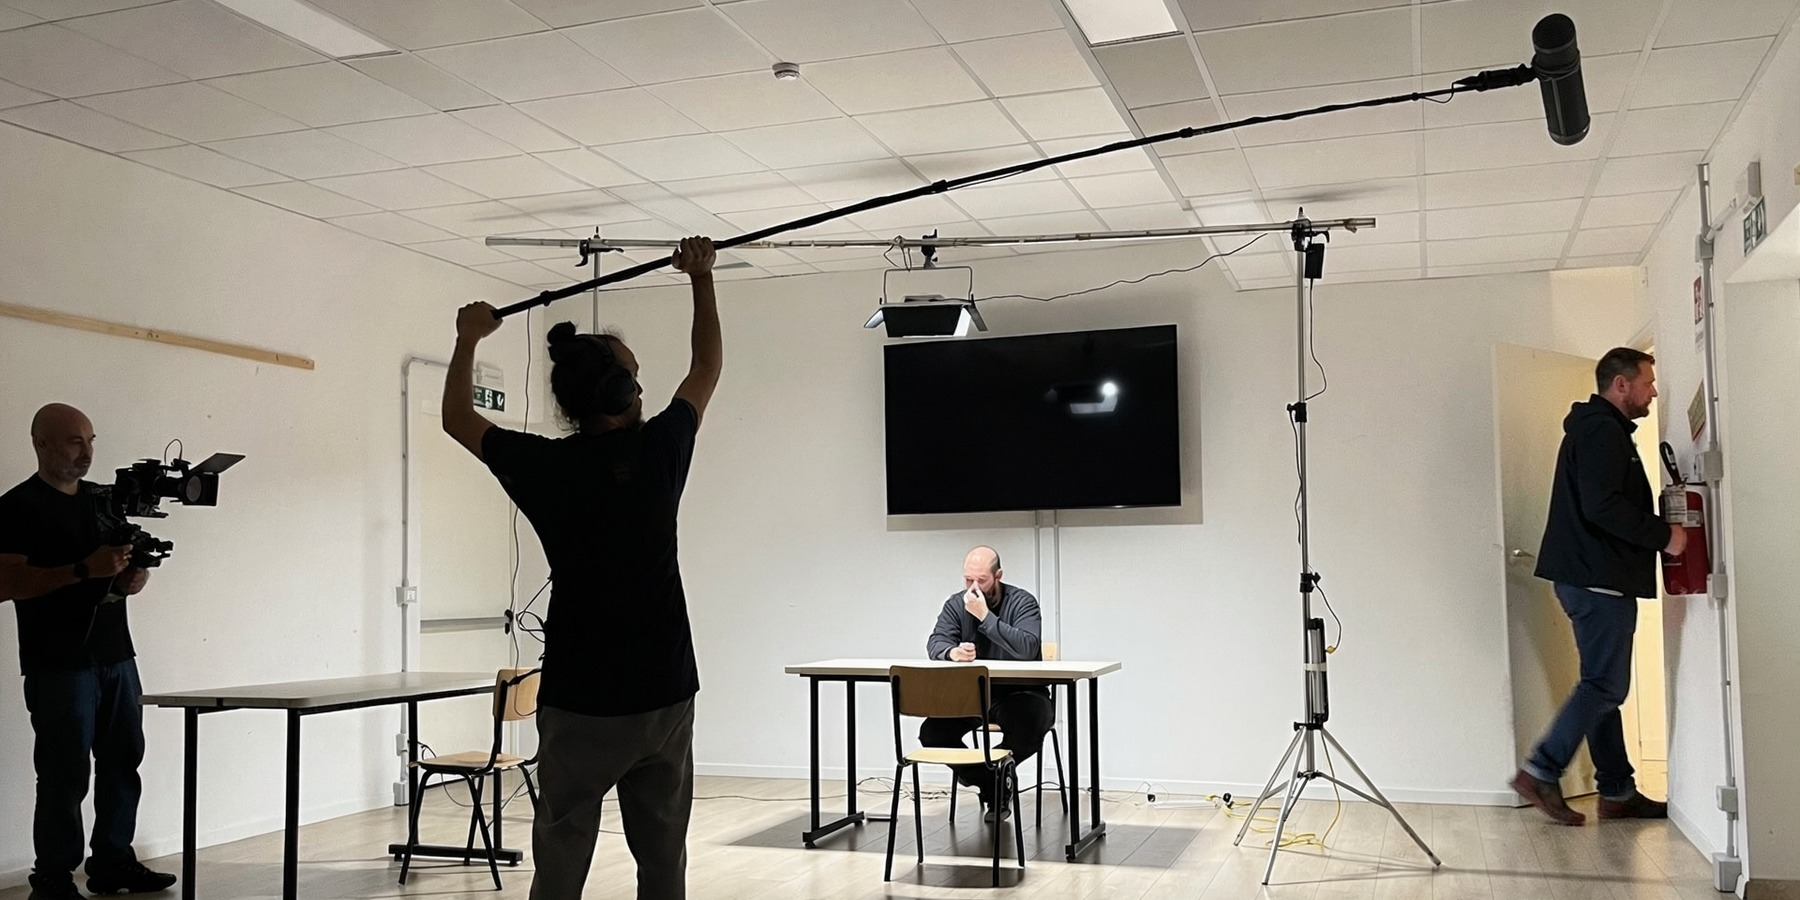
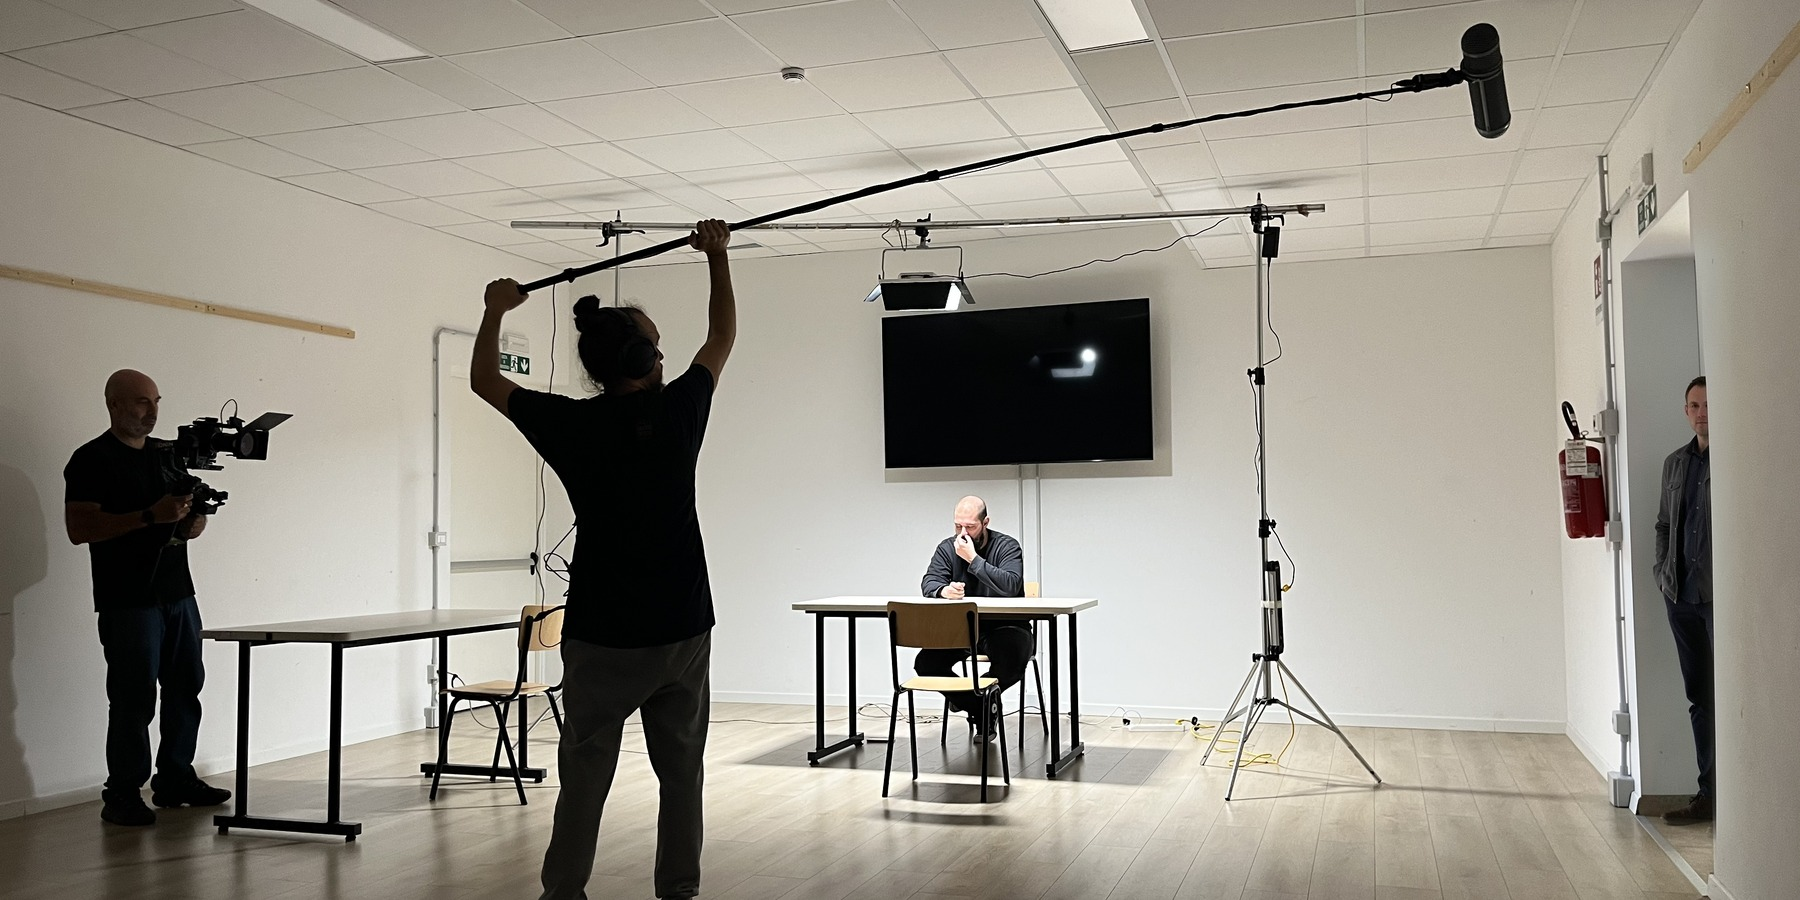
S15: hero rifatte, uomo in borghese nel vano della porta, foto originale invariata
Claude-Session: https://claude.ai/code/session_01VYan7tUqx5A9m4CND63LKw

diff --git a/src/guide/presa-diretta-fiction-cosa-fa-il-fonico-sul-set.md b/src/guide/presa-diretta-fiction-cosa-fa-il-fonico-sul-set.md
@@ -6,7 +6,7 @@ descrizione_seo: "Cosa fa il fonico di presa diretta sul set di una fiction, com
 date: 2026-11-24
 bozza: true
 copertina: presa-diretta-fiction-boom-attore-porta.jpg
-copertinaAlt: "Il fonico di spalle con il boom alzato in una stanza di set; sulla destra un attore entra dalla porta mentre il microfono lo segue"
+copertinaAlt: "Il fonico di spalle con il boom alzato in una stanza di set; sulla destra un uomo in borghese si affaccia dalla porta aperta"
 copertinaCredito: "Foto di Riccardo Vojvoda, attore aggiunto con l'AI (FLUX.2)"
 chiave: articolo-s15
 categoria: Presa diretta
